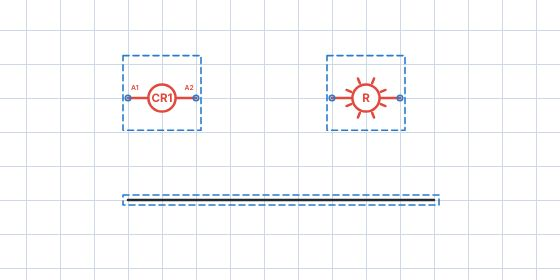
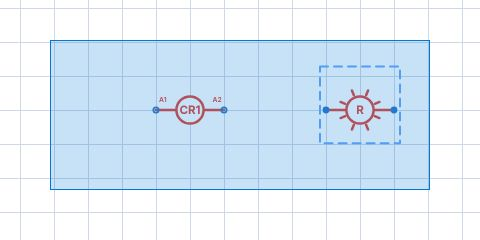
Tableau blanc : choisir les symboles avec l'outil Fil, objets avant les tuyaux, cadre Ctrl style Windows
Claude-Session: https://claude.ai/code/session_0132P7fSy2K8VC3HWdnHumMj

diff --git a/index.html b/index.html
@@ -3529,7 +3529,7 @@ function majObjUI(){ const b = $("#objBar"); if (!b) return; b.hidden = !RD.obj;
     if (el && RD.objK !== "jonction"){
       const b = borneProche(q.raw), h0 = b ? null : touche(q.raw);
       if (b || RD.objK === "fil"){                                    /* fil : on part d'une borne (ou d'un point de la grille avec l'outil Fil) */
-        snapInk(); const A = b || q.snap; mv = { fil:true, A, B:A, segs:[], dir:null }; SELO.s = null; tracerFil(); redrawInk(); majObjUI(); return;
+        snapInk(); const A = b || q.snap; mv = { fil:true, A, B:A, segs:[], dir:null, surObjet:b ? null : touche(q.raw) }; SELO.s = null; tracerFil(); redrawInk(); majObjUI(); return;
       }
     }
     let hit = touche(q.raw);
@@ -3566,7 +3566,7 @@ function majObjUI(){ const b = $("#objBar"); if (!b) return; b.hidden = !RD.obj;
   });
   ["pointerup", "pointercancel"].forEach(t => c.addEventListener(t, ev => {
     if (mv && mv.s && !mv.snap && ev.type === "pointerup") tapElement(mv.s, ev);      /* toucher sans bouger : compte pour le double-clic (renommer) */
-    if (mv && mv.fil){ if (mv.segs.length){ jonctionsAuto(mv.segs); nettoyerFils(); } else { (UNDO[inkKey()] || []).pop(); if (!mv.B || mv.B === mv.A){ RD.objKe = null; SELO.s = null; if (mv.filSous && strokes().includes(mv.filSous)){ SELO.s = mv.filSous; tapElement(mv.filSous, ev); } } }   /* clic sans tracer : retour à aucun outil */ mv = null; redrawInk(); majObjUI(); return; }
+    if (mv && mv.fil){ if (mv.segs.length){ jonctionsAuto(mv.segs); nettoyerFils(); } else { (UNDO[inkKey()] || []).pop(); if (!mv.B || mv.B === mv.A){ RD.objKe = null; SELO.s = null; const ch = mv.surObjet || mv.filSous; if (ch && strokes().includes(ch)){ SELO.s = ch; RD.objO = ch.o || 0; tapElement(ch, ev); } } }   /* simple clic sur un symbole ou un fil, même avec l'outil Fil : on le choisit (double-clic = repère) */   /* clic sans tracer : retour à aucun outil */ mv = null; redrawInk(); majObjUI(); return; }
     if (mv && mv.s && mv.snap && ELEC[mv.s.k]){                                  /* symbole déplacé : ses fils restent droits (un coude s'ajoute au besoin) */
       const ux = elecU() / c.width, uy = elecU() / c.height;
       mv.liens.forEach(([f, i, x0, y0]) => { const M = f.p[i].slice(), F = f.p[1 - i]; if (Math.abs(M[0] - F[0]) * c.width <= 2 || Math.abs(M[1] - F[1]) * c.height <= 2) return;
@@ -3646,7 +3646,7 @@ function majObjUI(){ const b = $("#objBar"); if (!b) return; b.hidden = !RD.obj;
     c.setPointerCapture(e.pointerId);
     if (RD.eraser){ cur = "erase"; eraseAt(pt(e)); return; }
     if (RD.crayonOff && !RD.text && !RD.obj){ e.preventDefault();                          /* aucun outil : rien ne se dessine, mais toucher une forme ou un objet le choisit */
-      const r0 = c.getBoundingClientRect(), brut = [(e.clientX - r0.left) / r0.width, (e.clientY - r0.top) / r0.height], hit = formeSous(brut) || (RD.wb ? objetSous(brut) : null);
+      const r0 = c.getBoundingClientRect(), brut = [(e.clientX - r0.left) / r0.width, (e.clientY - r0.top) / r0.height], hit = (RD.wb ? objetSous(brut) : null) || formeSous(brut);
       if (!hit) return;
       RD.obj = true; RD.objTab = null; RD.formeK = null; RD.objKi = null; RD.objKe = null; refreshTools();
       if (hit.t === "objet"){ if (choisirAutre(hit)) tapElement(hit, e); return; }
@@ -3741,11 +3741,14 @@ function aimanterTuyau(q, a, sauf){
   const c = $("#inkCanvas"); let mm = null, raf = 0, cadre = null;
   const actif = () => RD.wb && !RD.eraser && !RD.sim && !RD.text && (RD.obj || RD.crayonOff) && !RD.formeK && !RD.objK;
   const brut = e => { const r = c.getBoundingClientRect(); return [(e.clientX - r.left) / r.width, (e.clientY - r.top) / r.height]; };
-  const sous = q => formeSous(q) || objetSous(q);
+  const sous = q => objetSous(q) || formeSous(q);
   const stop = e => { e.stopImmediatePropagation(); e.preventDefault(); try { c.setPointerCapture(e.pointerId); } catch(er){} };
   c.addEventListener("pointerdown", e => {
-    if (!actif() || e.button > 0) return;
-    const q = brut(e), hit = sous(q), mod = e.ctrlKey || e.metaKey || e.shiftKey;
+    if (e.button > 0) return;
+    const mod = e.ctrlKey || e.metaKey || e.shiftKey;
+    if (mod && RD.wb && !RD.eraser && !RD.sim && !RD.text){ stop(e); mm = { cadre:true, q0:brut(e), x0:e.clientX, y0:e.clientY, mod:true, hit:sous(brut(e)) }; return; }   /* Ctrl : cadre à la Windows (ou Ctrl+clic sur un élément) */
+    if (!actif()) return;
+    const q = brut(e), hit = sous(q);
     if (mod && hit){ stop(e); if (!SELM.length && SELO.s && strokes().includes(SELO.s) && SELO.s !== hit) SELM = [SELO.s];
       SELM = SELM.includes(hit) ? SELM.filter(x => x !== hit) : SELM.concat([hit]); SELO.s = null; redrawInk(); try { majObjUI(); } catch(er){} return; }
     if (!mod && hit && SELM.length > 1 && SELM.includes(hit)){ stop(e); mm = { groupe:SELM.slice(), q0:q, p0:SELM.map(o => o.p.map(v => v.slice())), snap:false, x0:e.clientX, y0:e.clientY }; return; }
@@ -3755,10 +3758,10 @@ function aimanterTuyau(q, a, sauf){
   }, true);
   c.addEventListener("pointermove", e => {
     if (!mm) return; e.stopImmediatePropagation();
-    if (Math.hypot(e.clientX - mm.x0, e.clientY - mm.y0) < 5 && !mm.snap && !cadre) return;
+    if (Math.hypot(e.clientX - mm.x0, e.clientY - mm.y0) < (mm.mod ? 3 : 5) && !mm.snap && !cadre) return;
     if (mm.groupe){ const q = brut(e), dx = q[0] - mm.q0[0], dy = q[1] - mm.q0[1]; if (!mm.snap){ snapInk(); mm.snap = true; }
       mm.groupe.forEach((o, i) => { o.p = mm.p0[i].map(v => [v[0] + dx, v[1] + dy]); }); if (!raf) raf = requestAnimationFrame(() => { raf = 0; redrawInk(); }); return; }
-    if (!cadre){ cadre = document.createElement("div"); cadre.style.cssText = "position:fixed;z-index:60;border:2px dashed #2a7bcf;background:rgba(42,123,207,.08);pointer-events:none;border-radius:4px"; document.body.appendChild(cadre); }
+    if (!cadre){ cadre = document.createElement("div"); cadre.style.cssText = "position:fixed;z-index:100000;border:1px solid #0078d7;background:rgba(0,120,215,.22);pointer-events:none";   /* cadre de sélection comme dans Windows */ document.body.appendChild(cadre); }
     const x = Math.min(e.clientX, mm.x0), y = Math.min(e.clientY, mm.y0); Object.assign(cadre.style, { left:x + "px", top:y + "px", width:Math.abs(e.clientX - mm.x0) + "px", height:Math.abs(e.clientY - mm.y0) + "px" }); mm.x1 = e.clientX; mm.y1 = e.clientY;
   }, true);
   ["pointerup", "pointercancel"].forEach(t => c.addEventListener(t, e => {
@@ -3766,6 +3769,8 @@ function aimanterTuyau(q, a, sauf){
     if (m.groupe){ if (raf){ cancelAnimationFrame(raf); raf = 0; } try { if (m.groupe.some(o => o.t === "objet" && ELEC[o.k]) && window.nettoyerJonctions) nettoyerJonctions(); } catch(er){} redrawInk(); return; }
     if (cadre){ cadre.remove(); cadre = null; }
     if (m.x1 === undefined || t === "pointercancel"){                                                   /* simple clic dans le vide : plus rien de choisi */
+      if (m.mod && m.hit && t !== "pointercancel"){ const hit = m.hit; if (!SELM.length && SELO.s && strokes().includes(SELO.s) && SELO.s !== hit) SELM = [SELO.s];   /* Ctrl+clic : ajoute ou retire l'élément */
+        SELM = SELM.includes(hit) ? SELM.filter(x => x !== hit) : SELM.concat([hit]); SELO.s = null; redrawInk(); try { majObjUI(); } catch(er){} return; }
       if (!m.mod && (SELM.length || SELO.s)){ SELM = []; SELO.s = null; redrawInk(); try { majObjUI(); } catch(er){} } return; }
     const r = c.getBoundingClientRect(), sx = c.width / r.width, sy = c.height / r.height;
     const bx = [(Math.min(m.x0, m.x1) - r.left) * sx, (Math.min(m.y0, m.y1) - r.top) * sy, (Math.max(m.x0, m.x1) - r.left) * sx, (Math.max(m.y0, m.y1) - r.top) * sy];

diff --git a/CLAUDE.md b/CLAUDE.md
@@ -69,7 +69,7 @@
   offertes aussi sur les pages de livre. Iso (`OBJETS`) et Électricité (`ELEC`) : tableau blanc seulement; choisir l'onglet change le fond (iso / quadrillé).
 - **Lot du 28 oct.** : `effacerChoix()` (Suppr et `#objD`, aussi pour `SELM` = sélection multiple), gomme `RD.gommeT` (`#popGom`, `localStorage.gommeTaille`), plein écran `#penFs`, couleur perso `localStorage.penPerso`, aperçu de glisser-déposer `window.APERCU` (dessiné en fin de `redrawInk`, `apercuObjet`/`placer`).
 - **Lot électricité du 28 oct.** : `relais` (palette) pose bobine + contact NO + contact NF du même repère (`poserRelais`); repères auto `etiqAuto`/`completerObjet` (CRn, TRn; un contact prend la bobine choisie ou la dernière); bornes A1/A2 et `numBornes` (i3-i4 NO, i1-i2 NF selon le rang du contact); `ampoule`; tensions `s.vp`/`s.vs` (transfo) et `s.v` (échelle, au centre), éditées dans `modifierForme` par des cases `data-cle`; `RD.filCol` + rangée `[data-fc]`; pôles/positions `[data-pp]`/`[data-pt]` qui cliquent les anciens `[data-pol]` (cachés, `.orig`); `nettoyerJonctions` (< 3 branchements = effacée); `window.reparerApresSuppression` relie les fils/tuyaux d'un objet à 2 bornes effacé.
-- **Sélection multiple** (`window.SELM`) : IIFE en capture avant les autres gestionnaires du canevas, active seulement sans outil (`!RD.formeK && !RD.objK`) — Ctrl/Maj+clic bascule un élément, glisser dans le vide = cadre (`boiteDe`), glisser un membre = déplacer le groupe; cadres pointillés dessinés dans `redrawInk`; `recolorerSel` et `effacerChoix` traitent `SELM`; `copierColler('c'|'v'|'x'|'d')` (`window.PRESSE`, décalage de 2 cases ou d'un pas iso). Ctrl + vignette = `window.remplacerObjet(o, k)` (même famille); Ctrl + forme = change `s.t` en gardant la boîte.
+- **Sélection multiple** (`window.SELM`) : IIFE en capture avant les autres gestionnaires du canevas, active seulement sans outil (`!RD.formeK && !RD.objK`) — Ctrl/Maj+clic bascule un élément, glisser dans le vide = cadre (`boiteDe`), glisser un membre = déplacer le groupe; cadres pointillés dessinés dans `redrawInk`; `recolorerSel` et `effacerChoix` traitent `SELM`; `copierColler('c'|'v'|'x'|'d')` (`window.PRESSE`, décalage de 2 cases ou d'un pas iso). Ctrl/Maj + glisser = cadre style Windows partout sur le tableau blanc, même avec un outil (z-index 100000, sinon caché sous le lecteur); un objet passe avant un trait au toucher (`objetSous` avant `formeSous`); avec l'outil Fil, un simple clic sur un symbole le choisit (`mv.surObjet`). Ctrl + vignette = `window.remplacerObjet(o, k)` (même famille); Ctrl + forme = change `s.t` en gardant la boîte.
 - **Plomberie en coupe** : formes `FORMES[k].pl` (section `<details class="plomb">` de l'onglet Formes) : `maison`, tuyaux `tuyEF/EC/DR/EV/GZ` (couleurs `COUL_TUY`, traités comme des lignes : regex `tuy[A-Z]+`), appareils `pl*`; dessin `dessinerPlomb`; taille d'un clic `FORMES_TAILLE` (centrée); `aimanterTuyau` (45° + bout ou trajet d'un autre tuyau); avec un outil tuyau, toucher le tuyau choisi ou sa poignée démarre un nouveau tuyau.
 - **Cotes** : `placerCase` met la case du double-clic à côté de l'objet; bouton `[data-plus]` → `ajouterCote` (côté suivant sans cote, à l'extérieur; `sommetsForme`).
 - **Crayon** : le bouton crayon `#penCol` (icône crayon, pointe à la couleur `--pc`) active/désactive le crayon (`RD.crayonOff`; l'activer ouvre `#popCol`). Épaisseur = glissière 1–40 (`RD.wPx`, `localStorage.penLargeur`, `majLargeur`); l'ancien bouton `#penW` (3 grosseurs) est retiré. Le tracé (`RD.shape`) se choisit dans la rangée « Tracé » du menu (`.ptrace`); `#penS` est caché (gardé pour `refreshTools`).
